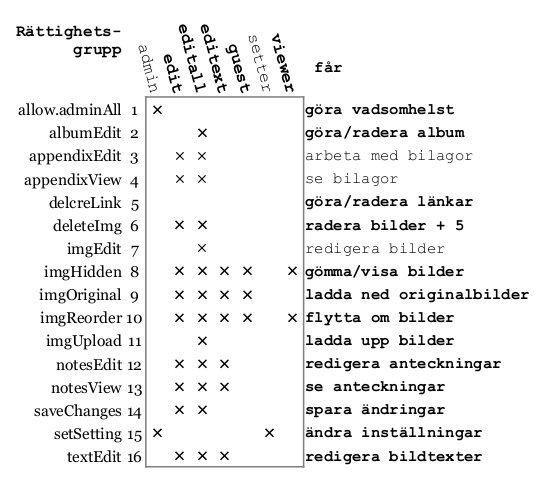
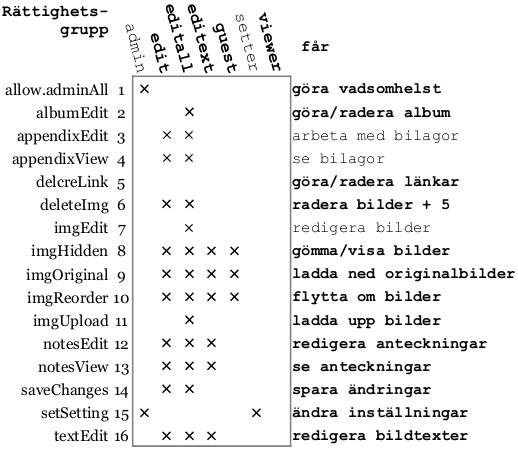
theme, menu prel.

diff --git a/mish-project/app/components/menu-buttons.js b/mish-project/app/components/menu-buttons.js
@@ -1501,9 +1501,13 @@ export default Component.extend (contextMenuMixin, {
       }
       var allowHtml = [];
       for (var j=0; j<n; j++) {
-        allowHtml [j] = "<span>allow." + allowance [j] + " " + (j + 1) + ' </span>' + code (Number (allowvalue [j]), j);
+        // Original
+        //allowHtml [j] = "<span>allow." + allowance [j] + " " + (j + 1) + ' </span>' + code (Number (allowvalue [j]), j);
+        // Swedish
+        allowHtml [j] = "<span>" + allowSV [j] + " " + (j + 1) + ' </span>' + code (Number (allowvalue [j]), j); // i18n
       }
-      $ ("#setAllow").html (allowHtml.join ("<br>"));
+
+      $ ("#setAllow").html ("<span style=\"margin-right:8em\">Dina rättigheter:</span><br>" + allowHtml.join ("<br>"));
       allowFunc ();
 
       if (newSetting) { // Allow only one confirmation per settings-view
@@ -2366,21 +2370,12 @@ export default Component.extend (contextMenuMixin, {
 
     },
     //============================================================================================
-    toggleBackg () {
-      if (BACKG === "#000") {
-        BACKG = "#b0b0b0";
-      } else {
-        BACKG ="#000";
-      }
-      $ (".BACKG").css ("background", BACKG); // Repeat in didRender ()!
-    },
-    //============================================================================================
-    findText () { // ##### Open dialog to search Xmp metadata text in the current imdbRoot
+    toggleBackg () { // ##### Change theme light/dark
 
       if (BACKG === "#000") {
-        BACKG = "#b0b0b0";
+        BACKG = "#cbcbcb";
         TEXTC = "#000";
-        BLUET = "#08d"
+        BLUET = "#0085ff";
       } else {
         BACKG ="#000"; // background
         TEXTC = "#fff"; // text color
@@ -2389,6 +2384,10 @@ export default Component.extend (contextMenuMixin, {
       $ (".BACKG").css ("background", BACKG); // Repeat in didRender ()!
       $ (".TEXTC").css ("color", TEXTC); // Repeat in didRender ()!
       $ (".BLUET").css ("color", BLUET); // Repeat in didRender ()!
+
+    },
+    //============================================================================================
+    findText () { // ##### Open dialog to search Xmp metadata text in the current imdbRoot
 
       if (!(allow.imgHidden || allow.adminAll)) {
         userLog ("LOCKED", true);
@@ -2920,11 +2919,11 @@ export default Component.extend (contextMenuMixin, {
 });
 // G L O B A L S, that is, 'outside' (global) variables and functions (globals)
 /////////////////////////////////////////////////////////////////////////////////////////
-let BACKG = "#b0b0b0";
+let BACKG = "#cbcbcb";
 let TEXTC = "#000";
-let BLUET = "#08d";
+let BLUET = "#0085ff";
 let albumWait = false;
-let logAdv = "Logga in för att kunna se inställningar, anonymt utan namn eller lösenord, eller med namnet 'gäst' utan lösenord för att också få vissa redigeringsrättigheter"; // i18n
+let logAdv = "Logga in för att kunna se inställningar: Anonymt utan namn och lösenord, eller med namnet 'gäst' utan lösenord som ger vissa redigeringsrättigheter"; // i18n
 let nosObs = "Skriv gärna på prov, men du saknar tillåtelse att spara text"; // i18n
 let nopsGif = "GIF-fil kan bara ha tillfällig text"; // i18n
 //let nopsLink = "Text kan inte ändras/sparas permanent via länk"; // i18n Obsolete
@@ -3717,13 +3716,14 @@ function extractContent(htmlString) { // Extracts text from an HTML string
 // - - - - - - - - - - - - - - - - - - - - - - - - - - - - - - - - - - - - - - - - - - - - - - - -
 function devSpec () { // Device specific features/settings
   // How do we make context menus with iPad/iOS?
-  if ( (navigator.userAgent).includes ("iPad")) {
+  /*if ( (navigator.userAgent).includes ("iPad")) {
     $ ("#full_size").hide (); // the central full size image link
   }
   if (window.screen.width < 500) {
     $ ("#full_size").hide (); // the central full size image link
     $ ("a.toggleAuto").hide (); // slide show button
-  }
+  }*/
+  return false;
 }
 // - - - - - - - - - - - - - - - - - - - - - - - - - - - - - - - - - - - - - - - - - - - - - - - -
 function disableSettings () { // Disables the confirm button, and all checkboxes
@@ -4161,8 +4161,10 @@ $ ( () => {
     var fileName = $ ("#i" + ednp + " img").attr ('title');
     $ ("#i" + ednp + " .img_txt1" ).html (text1);
     $ ("#i" + ednp + " .img_txt1" ).attr ('title', text1.replace(/<[^>]+>/g, " "));
+    $ ("#i" + ednp + " .img_txt1" ).attr ('totip', text1.replace(/<[^>]+>/g, " "));
     $ ("#i" + ednp + " .img_txt2" ).html (text2);
     $ ("#i" + ednp + " .img_txt2" ).attr ('title', text2.replace(/<[^>]+>/g, " "));
+    $ ("#i" + ednp + " .img_txt2" ).attr ('totip', text2.replace(/<[^>]+>/g, " "));
     if ($ (".img_show .img_name").text () === namepic) {
       $ ("#wrap_show .img_txt1").html (text1);
       $ ("#wrap_show .img_txt2").html (text2);
@@ -4267,6 +4269,24 @@ var allowance = [ // 'allow' order
   "saveChanges",  // +  " save order/changes (= saveOrder)
   "setSetting",   // +  " change settings
   "textEdit"      // +  " edit image texts (metadata)
+];
+var allowSV = [ // Ordered as 'allow', IMPORTANT!
+  "Får göra vadsomhelst",
+  "göra/radera album",
+  "(arbeta med bilagor + 4)",
+  "(se bilagor)",
+  "göra/radera länkar",
+  "radera bilder + 5",
+  "redigera bilder",
+  "gömma/visa bilder",
+  "ladda ned originalbilder",
+  "flytta om bilder",
+  "ladda upp bilder",
+  "redigera/spara anteckningar",
+  "se anteckningar",
+  "spara ändringar utöver text",
+  "ändra inställningar",
+  "redigera/spara bildtexter"
 ];
 var allowvalue = "0".repeat (allowance.length);
 $ ("#allowValue").text (allowvalue);

diff --git a/mish-project/app/styles/app.css b/mish-project/app/styles/app.css
@@ -319,7 +319,6 @@ button.ui-dialog-titlebar-close span {
   font-family: Verdana, Geneva, Tahoma, sans-serif !important;
   font-size: 0.5em;
   font-weight: bold;
-  color: deepskyblue;
   position: relative;
   top: 0;
   margin: -8px 0 -12px -8px;
@@ -329,15 +328,17 @@ button.ui-dialog-titlebar-close span {
   display: inline-block;
   margin: 1em 0 0.75em 2em;
 }
+#title * {
+  color: inherit;
+}
 #title .proid {
   font-family: Verdana, Geneva, Tahoma, sans-serif!important;
   font-size: 1em!important;
-  color: deepskyblue;
   font-weight: bold;
   padding: 0;
   margin: 0;
   display: inline-block;
-  border: 0px solid gray;
+  border: 0px solid #aaa;
   border-radius: 2px;
   vertical-align: top;
 }
@@ -351,29 +352,25 @@ button.ui-dialog-titlebar-close span {
   font-size: 0.8em;
   text-align: center;
   cursor: pointer;
-  color: deepskyblue;
   padding: 0 3px 1px 2px;
   margin: 0 0.2em;
   display: inline-block;
-  border: 1.0px solid #eee;
+  border: 1.0px solid #aaa;
   border-radius: 2px;
   background: transparent;
 }
 #title span.cred.name {
   font-size: 0.8em!important;
   font-family: Verdana, Geneva, Tahoma, sans-serif!important;
-  color: deepskyblue;
   padding: 0 0 1px 0;
 }
 #title span.cred.name b {
   font-family: Verdana, Geneva, Tahoma, sans-serif!important;
-  color: deepskyblue;
   padding: 0 0 1px 0;
 }
 #title span.cred.status {
   font-size: 0.8em!important;
   font-family: Verdana, Geneva, Tahoma, sans-serif!important;
-  color: deepskyblue;
   padding: 0 0 1px 0;
   cursor: pointer;
 }
@@ -572,8 +569,8 @@ button[disabled] {
   margin-left: 1em;
 }
 .subAlbum {
-  background:transparent;
-  display:inline-block;
+  background: transparent;
+  display: inline-block;
   vertical-align:top;
   width: 100px;
   margin: 0.5em 0 0 0;
@@ -583,9 +580,22 @@ button[disabled] {
 .img_show .imDir .albumName {
   padding-right: 50px;
 }
+.BUT_0 *:hover {
+  color: deepskyblue;
+}
+.BUT_0 {
+  display: inline-block;
+  width: 1em;
+  border: 1px solid #aaa;
+  border-radius: 4px;
+  padding: 0 0 0 0.4em;
+  margin: -0.2em 0.1em 0.25em 0;
+  cursor: pointer;
+  font-size: 1.2em;
+}
 .BUT_1 {
   width: 1em;
-  border: 1.5px solid #ccc;
+  border: 1px solid #aaa;
   border-radius: 4px;
   padding: 0 0.1em 0.2em 0.4em;
   margin: 0 0 0 0;
@@ -987,7 +997,7 @@ div.settings {
   margin: 0;
   padding: 0.5em 1em 0.5em 0.5em;
   text-align: right;
-  border: 1px solid #eee;
+  border: 1px solid #aaa;
   border-radius: 0.5em;
   z-index: 28;
 }
@@ -996,7 +1006,7 @@ div.settings select {
   margin: 0 0 0.5em 0;
   cursor: pointer;
   background: transparent;
-  border: solid 1.0px #eee;
+  border: solid 1.0px #aaa;
   border-radius: 3px;
 }
 select option {
@@ -1010,7 +1020,7 @@ div.settings button {
   color: #333;
   background: #e0ddda;
   margin: 0.35em 0.1em 0.1em 0;
-  border: 1.0px solid #eee;
+  border: 1.0px solid #aaa;
   border-radius: 3px;
   cursor: pointer;
 }
@@ -1429,7 +1439,6 @@ div.settings span {
         transition: opacity 0.2s linear; }
     a {
       cursor: pointer;
-      color: #aef;
       text-decoration: none; }
     a:hover {
       color: deepskyblue;
